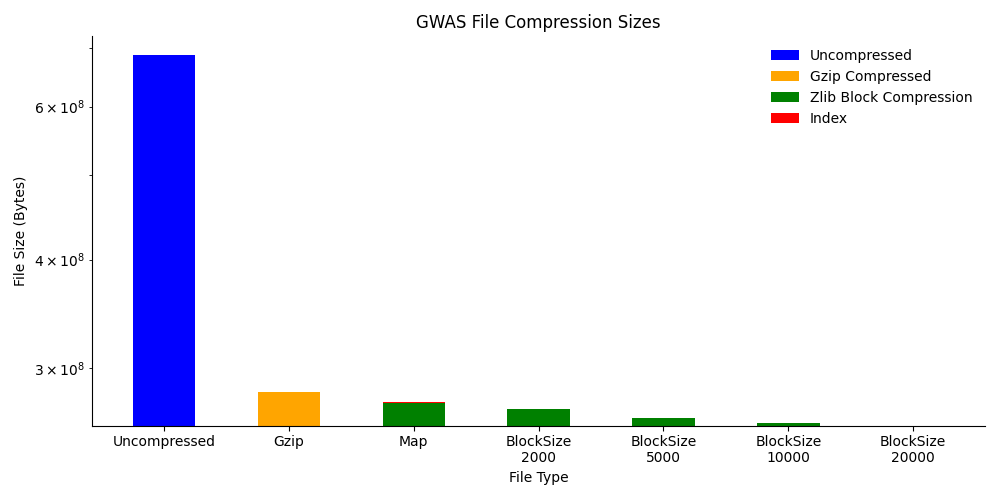
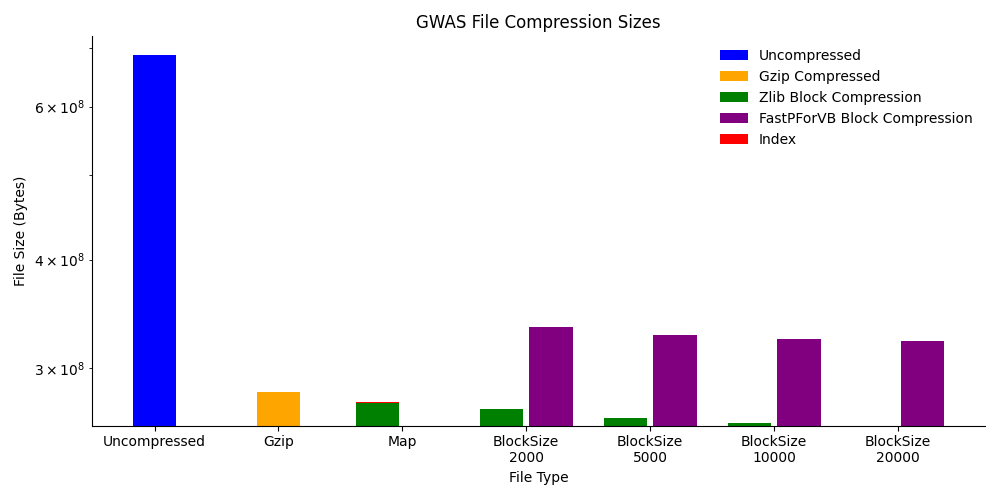
adding fpf block compression

diff --git a/python/plot_file_sizes.py b/python/plot_file_sizes.py
@@ -39,13 +39,14 @@ def plot_file_sizes(gwas_file_names, file_sizes, plot_dir):
         gzip_file = file + '.tsv.gz'
         gzip_size = file_sizes[gzip_file]
         # (1) uncompressed
-        bar_width = 0.5
+        bar_width = 0.35
         plt.bar(0, uncompresed_size, bar_width, label='Uncompressed', color='blue')
         # (2) gzip
         plt.bar(1, gzip_size, bar_width, label='Gzip Compressed', color='orange')
+        x_blocks = np.arange(2, 7, 1)
+        # x_blocks = [1.75, 2.25, 2.75, 3.25, 3.75, 4.25, 4.75, 5.25, 5.75, 6.25]
 
-        # (map, 2000, 5000, 10000, 20000)
-        x_blocks = [2, 3, 4, 5, 6]
+        # ZLIB: (map, 2000, 5000, 10000, 20000)
         map_zlib_file = file + '.tsv.grlz_zlib-map'
         map_zlib_index = file + '.tsv.grlz.idx_zlib-map'
         map_zlib_file_size = file_sizes[map_zlib_file]
@@ -66,15 +67,15 @@ def plot_file_sizes(gwas_file_names, file_sizes, plot_dir):
         zlib_20000_file_index = file + '.tsv.grlz.idx_zlib-20000'
         zlib_20000_file_size = file_sizes[zlib_20000_file]
         zlib_20000_file_index_size = file_sizes[zlib_20000_file_index]
+        # plot zlib
+        plt.bar(x_blocks - 0.2, [map_zlib_file_size,
+                           zlib_2000_file_size,
+                           zlib_5000_file_size,
+                           zlib_10000_file_size,
+                           zlib_20000_file_size], bar_width,
+                label='Zlib Block Compression', color='green')
 
-
-        plt.bar(x_blocks, [map_zlib_file_size,
-                             zlib_2000_file_size,
-                             zlib_5000_file_size,
-                             zlib_10000_file_size,
-                             zlib_20000_file_size], bar_width,
-                      label='Zlib Block Compression', color='green')
-        plt.bar(x_blocks, [map_zlib_index_size,
+        plt.bar(x_blocks - 0.2, [map_zlib_index_size,
                              zlib_2000_file_index_size,
                              zlib_5000_file_index_size,
                              zlib_10000_file_index_size,
@@ -83,8 +84,47 @@ def plot_file_sizes(gwas_file_names, file_sizes, plot_dir):
                           zlib_2000_file_size,
                           zlib_5000_file_size,
                           zlib_10000_file_size,
-                          zlib_20000_file_size], label='Index',
+                          zlib_20000_file_size],
                   color='red')
+
+        # FASTPFORVB: (2000, 5000, 10000, 20000)
+        fpfvb_2000_file = file + '.tsv.grlz_fpfvb-2000'
+        fpfvb_2000_file_index = file + '.tsv.grlz.idx_fpfvb-2000'
+        fpfvb_2000_file_size = file_sizes[fpfvb_2000_file]
+        fpfvb_2000_file_index_size = file_sizes[fpfvb_2000_file_index]
+        fpfvb_5000_file = file + '.tsv.grlz_fpfvb-5000'
+        fpfvb_5000_file_index = file + '.tsv.grlz.idx_fpfvb-5000'
+        fpfvb_5000_file_size = file_sizes[fpfvb_5000_file]
+        fpfvb_5000_file_index_size = file_sizes[fpfvb_5000_file_index]
+        fpfvb_10000_file = file + '.tsv.grlz_fpfvb-10000'
+        fpfvb_10000_file_index = file + '.tsv.grlz.idx_fpfvb-10000'
+        fpfvb_10000_file_size = file_sizes[fpfvb_10000_file]
+        fpfvb_10000_file_index_size = file_sizes[fpfvb_10000_file_index]
+        fpfvb_20000_file = file + '.tsv.grlz_fpfvb-20000'
+        fpfvb_20000_file_index = file + '.tsv.grlz.idx_fpfvb-20000'
+        fpfvb_20000_file_size = file_sizes[fpfvb_20000_file]
+        fpfvb_20000_file_index_size = file_sizes[fpfvb_20000_file_index]
+
+        # plot fastpforvb
+        plt.bar(x_blocks + .2, [0,
+                                fpfvb_2000_file_size,
+                                fpfvb_5000_file_size,
+                                fpfvb_10000_file_size,
+                                fpfvb_20000_file_size], bar_width,
+                label='FastPForVB Block Compression', color='purple')
+
+        plt.bar(x_blocks + .2, [0,
+                                fpfvb_2000_file_index_size,
+                                fpfvb_5000_file_index_size,
+                                fpfvb_10000_file_index_size,
+                                fpfvb_20000_file_index_size], bar_width,
+                    bottom=[0,
+                            fpfvb_2000_file_size,
+                            fpfvb_5000_file_size,
+                            fpfvb_10000_file_size,
+                            fpfvb_20000_file_size], label='Index', color='red')
+
+
 
         # FORMATTING
         plt.title('GWAS File Compression Sizes')
@@ -99,19 +139,13 @@ def plot_file_sizes(gwas_file_names, file_sizes, plot_dir):
         # no spines
         ax.spines['top'].set_visible(False)
         ax.spines['right'].set_visible(False)
-        # log scale
+        # # log scale
         plt.yscale('log')
 
 
 
     plt.tight_layout()
     plt.savefig(os.path.join(plot_dir, 'file_sizes.png'))
-
-
-
-
-
-
 
 
 def main():
